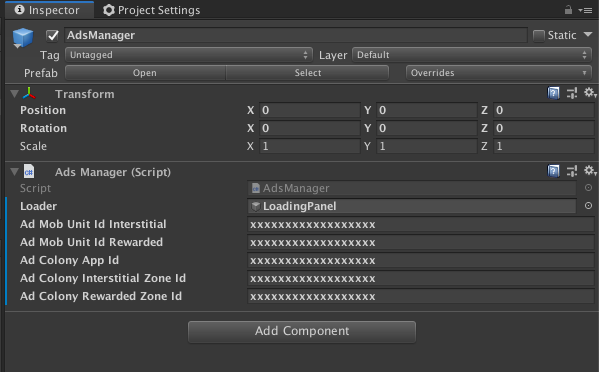
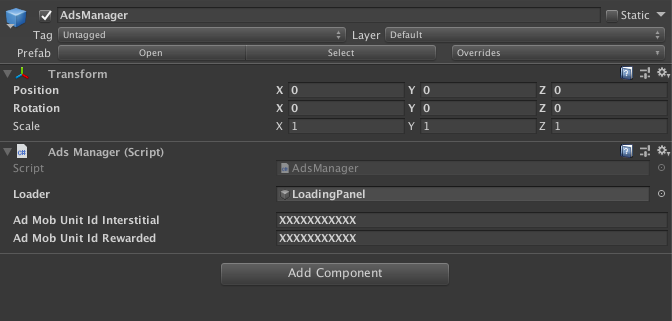
Update README and Add files via upload

diff --git a/README.md b/README.md
@@ -25,11 +25,23 @@ Check **Google Ad Mob** - **Enabled**<br/>
 Add **AdMob Android App Id** string<br/><br/>
 
 ![Image7](images/7.png)<br/>
-Into a Scene add the **AdManager** Prefab<br/>
 Locate Prefab at **AdMediation** -> **Prefabs** Folder<br/><br/>
 
+![Image7_1](images/7_1.png)<br/>
+Into a Scene add the **AdsManager** Prefab<br/>
+The Hierarchy should be like the Image<br/><br/>
+
 ![Image8](images/8.png)<br/>
-Select Prefab's GameObject in the Scene **AdMediation** and add **AdMob** and **AdColony** strings<br/><br/>
+Select Prefab's GameObject in the Scene **AdMediation** and add **AdMob** strings<br/><br/>
+
+![Image8_1](images/8_1.png)<br/>
+Add **Ad Units** to **MoPubManager** <br/><br/>
+
+![Image8_2](images/8_2.png)<br/>
+Add **Interstitial Ad Units** and **Rewarded Ad Units** to **MoPubDemoScene** <br/><br/>
+
+![Image8_3](images/8_3.png)<br/>
+Inside **IronSource** GameObject, Add **Unique User Id** and **AppKey** <br/><br/>
 
 ![Image9](images/9.png)<br/>
 ![Image10](images/10.png)<br/>
